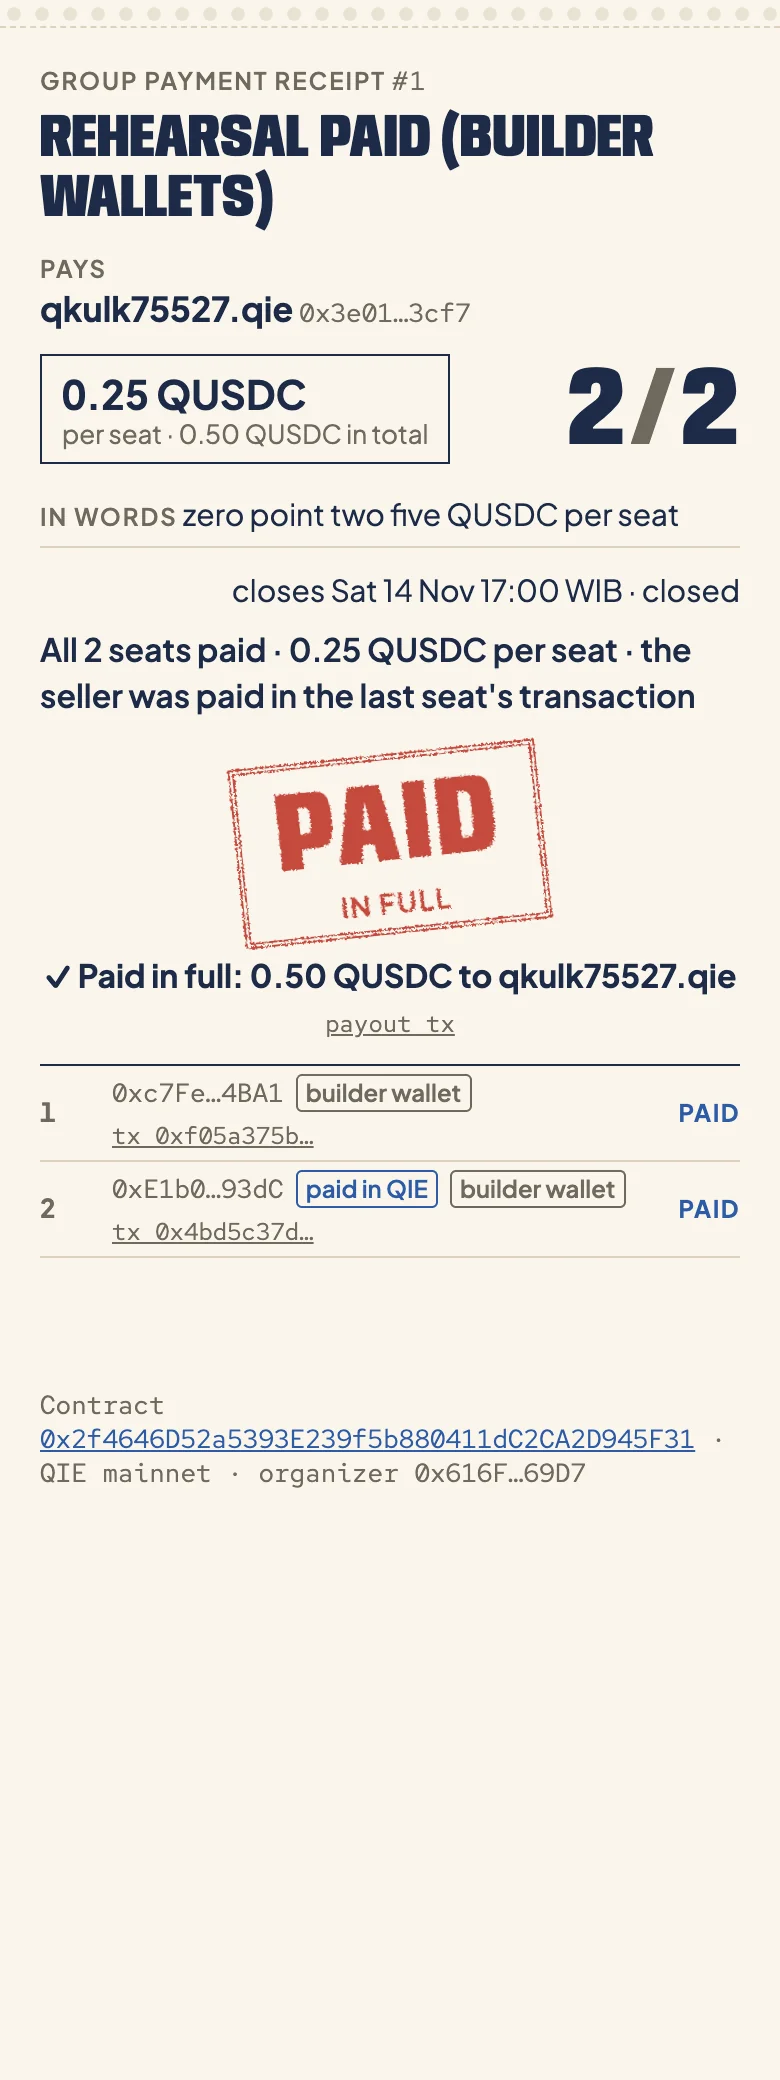
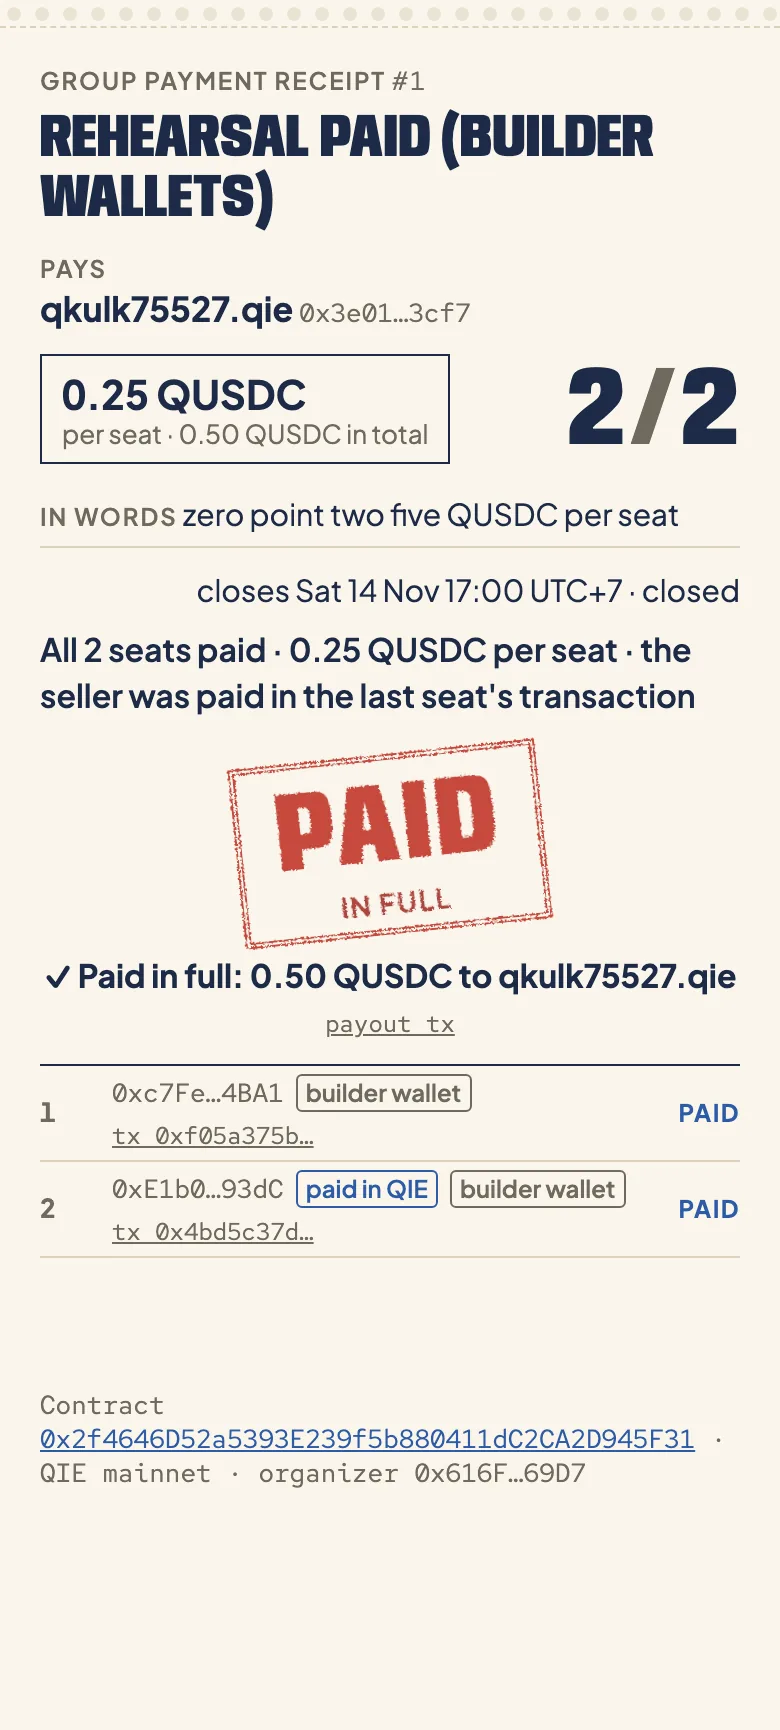
fix(web): show deadlines as UTC+7 (Jakarta time) instead of WIB
Pool pages, the create form and the English share line now spell the
zone as the offset, so a reader outside Indonesia needs no shorthand.
The Indonesian share line keeps WIB. The landing's start, paid and
refunded phone shots are re-captured from the live mainnet pools.

diff --git a/web/src/format.test.ts b/web/src/format.test.ts
@@ -99,7 +99,7 @@ describe('pool state', () => {
     const at = { ...base, price: 2_000_000n }
     expect(statusLine({ ...at, status: 1, filled: 5 }, 0)).toBe("All 5 seats paid · 2.00 QUSDC per seat · the seller was paid in the last seat's transaction")
     expect(statusLine({ ...at, status: 2, filled: 0, memberCount: 0 }, 0)).toBe('Cancelled by the organizer before anyone joined')
-    expect(statusLine({ ...at, filled: 0, memberCount: 0 }, 2_000_000)).toMatch(/^Closed at .* WIB with no seats paid$/)
+    expect(statusLine({ ...at, filled: 0, memberCount: 0 }, 2_000_000)).toMatch(/^Closed at .* UTC\+7 with no seats paid$/)
     expect(statusLine(at, 2_000_000)).toBe('CLOSED, refunds available · 2 of 5 seats were paid · every member gets their QUSDC back')
     expect(statusLine({ ...at, refunded: 2 }, 2_000_000)).toBe('Everyone was refunded: 2 members')
     expect(statusLine({ ...at, memberCount: 1, refunded: 1 }, 2_000_000)).toBe('Everyone was refunded: 1 member')
@@ -111,9 +111,9 @@ describe('pool state', () => {
 })
 
 describe('time', () => {
-  it('shows the deadline in WIB (UTC+7)', () => {
+  it('shows the deadline as UTC+7 (Jakarta time)', () => {
     // 2026-11-18 13:00:00Z = Wed 20:00 WIB
-    expect(fmtWib(BigInt(Date.UTC(2026, 10, 18, 13, 0, 0) / 1000))).toBe('Wed 18 Nov 20:00 WIB')
+    expect(fmtWib(BigInt(Date.UTC(2026, 10, 18, 13, 0, 0) / 1000))).toBe('Wed 18 Nov 20:00 UTC+7')
   })
   it('counts down', () => {
     expect(fmtLeft(100n, 100)).toBe('closed')

diff --git a/web/src/create-logic.test.ts b/web/src/create-logic.test.ts
@@ -55,7 +55,7 @@ describe('checkCreate', () => {
   it('asks for a price the contract accepts and for a deadline when the inputs are empty', () => {
     const c = checkCreate({ ...ok, price: 'two', date: '', time: '' })
     expect(c.errors.price).toMatch(/price per seat in QUSDC/)
-    expect(c.errors.deadline).toBe('Pick a deadline date and time (WIB).')
+    expect(c.errors.deadline).toBe('Pick a deadline date and time (UTC+7).')
     expect(c.price).toBeUndefined()
   })
   it('bounds the deadline to 10 minutes .. 90 days from chain time', () => {
@@ -70,7 +70,7 @@ describe('share', () => {
   it('is English first with one Indonesian line, carries the link, the deadline in WIB and the refund promise', () => {
     expect(t).toContain('Thursday football')
     expect(t).toContain('12 seats × 2.00 QUSDC')
-    expect(t).toContain('Fri 20 Nov 20:00 WIB')
+    expect(t).toContain('Fri 20 Nov 20:00 UTC+7')
     expect(t).toContain('sebelum Jum 20 Nov 20:00 WIB')
     expect(t).toContain('mengambil kembali QUSDC')
     expect(t).toContain('take their QUSDC back')

diff --git a/web/src/format.ts b/web/src/format.ts
@@ -101,14 +101,14 @@ export function qieOffer(qieIn: bigint, maxAllowed: bigint): QieOffer {
 
 const WIB_OFFSET = 7 * 3600
 
-/** "Wed 20:00 WIB" for a unix deadline (Indonesia Western Time, UTC+7, no DST). */
+/** "Wed 18 Nov 20:00 UTC+7" for a unix deadline (Jakarta time, UTC+7, no DST; spelled as the offset so a global reader needs no zone shorthand). */
 export function fmtWib(deadline: bigint): string {
   const d = new Date((Number(deadline) + WIB_OFFSET) * 1000)
   const day = ['Sun', 'Mon', 'Tue', 'Wed', 'Thu', 'Fri', 'Sat'][d.getUTCDay()]
   const mon = ['Jan', 'Feb', 'Mar', 'Apr', 'May', 'Jun', 'Jul', 'Aug', 'Sep', 'Oct', 'Nov', 'Dec'][d.getUTCMonth()]
   const hh = String(d.getUTCHours()).padStart(2, '0')
   const mm = String(d.getUTCMinutes()).padStart(2, '0')
-  return `${day} ${d.getUTCDate()} ${mon} ${hh}:${mm} WIB`
+  return `${day} ${d.getUTCDate()} ${mon} ${hh}:${mm} UTC+7`
 }
 
 /** "2 d 3 h left", "45 min left", "closed". */

diff --git a/web/src/create.ts b/web/src/create.ts
@@ -36,9 +36,9 @@ export async function renderCreate(root: HTMLElement) {
           <input name="price" inputmode="decimal" autocomplete="off" placeholder="2" value="2" required><span class="err" aria-live="polite" data-err="price"></span></label>
       </div>
       <div class="two">
-        <label class="field"><span class="label">Deadline date <i>(WIB, UTC+7)</i></span>
+        <label class="field"><span class="label">Deadline date <i>(UTC+7, Jakarta time)</i></span>
           <input name="date" type="date" value="${defaultDeadline.date}" required></label>
-        <label class="field"><span class="label">Time <i>(WIB, UTC+7)</i></span>
+        <label class="field"><span class="label">Time <i>(UTC+7, Jakarta time)</i></span>
           <input name="time" type="time" value="20:00" required></label>
       </div>
       <span class="err" aria-live="polite" data-err="deadline"></span>

diff --git a/web/src/pool.test.ts b/web/src/pool.test.ts
@@ -280,7 +280,7 @@ describe('pool page: loading', () => {
     expect($('.amount small')!.textContent).toContain('10.00 QUSDC in total')
     expect($('.counter')!.getAttribute('aria-label')).toBe('2 of 5 seats paid')
     expect($('.inwords')!.textContent).toContain('two point zero zero QUSDC per seat')
-    expect($('.deadline')!.textContent).toMatch(/closes .* WIB · 1 d 0 h left|closes .* WIB · 23 h/)
+    expect($('.deadline')!.textContent).toMatch(/closes .* UTC\+7 · 1 d 0 h left|closes .* UTC\+7 · 23 h/)
     expect($('.status')!.textContent).toContain('2 of 5 seats paid')
     expect($('footer a')!.getAttribute('href')).toBe(`https://mainnet.qie.digital/address/${MAIN.address}`)
     expect($('footer')!.textContent).toContain('organizer 0x616F…69D7')

diff --git a/web/src/create-logic.ts b/web/src/create-logic.ts
@@ -65,7 +65,7 @@ export function checkCreate(i: CreateInput): CreateChecked {
   const price = parseQusdc(i.price)
   if (price === undefined) errors.price = 'Enter a price per seat in QUSDC, up to 6 decimals, e.g. 2 or 0.25.'
   const deadline = wibToUnix(i.date, i.time)
-  if (deadline === undefined) errors.deadline = 'Pick a deadline date and time (WIB).'
+  if (deadline === undefined) errors.deadline = 'Pick a deadline date and time (UTC+7).'
   else if (deadline < i.chainNow + MIN_DURATION_S + 60) errors.deadline = 'The deadline must be at least 10 minutes from now.'
   else if (deadline > i.chainNow + MAX_DURATION_S - 60) errors.deadline = 'The deadline can be at most 90 days from now.'
   return { errors, price, deadline }
